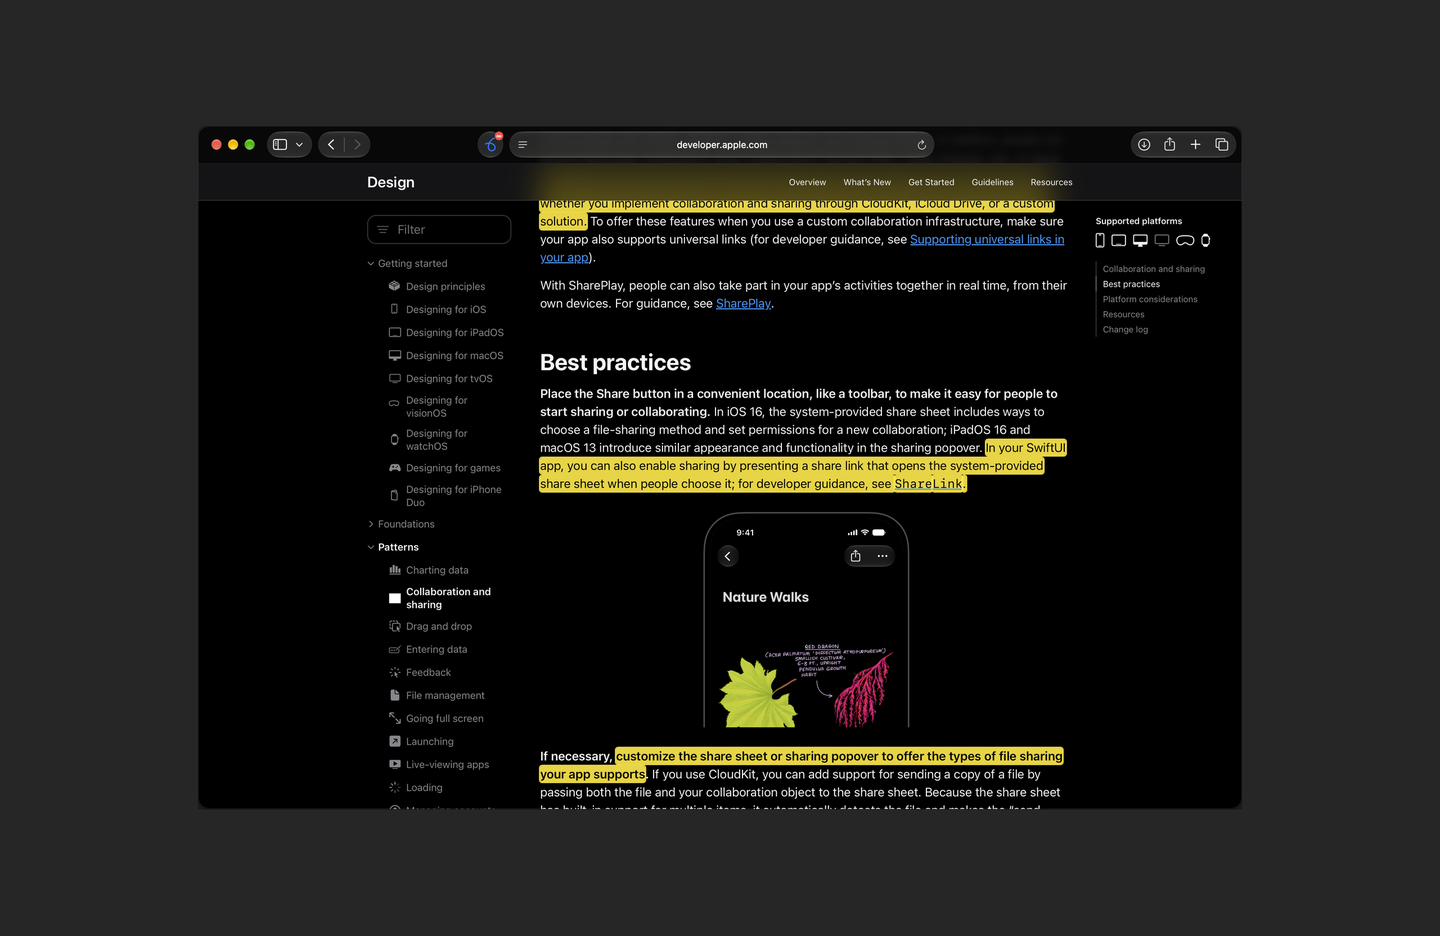
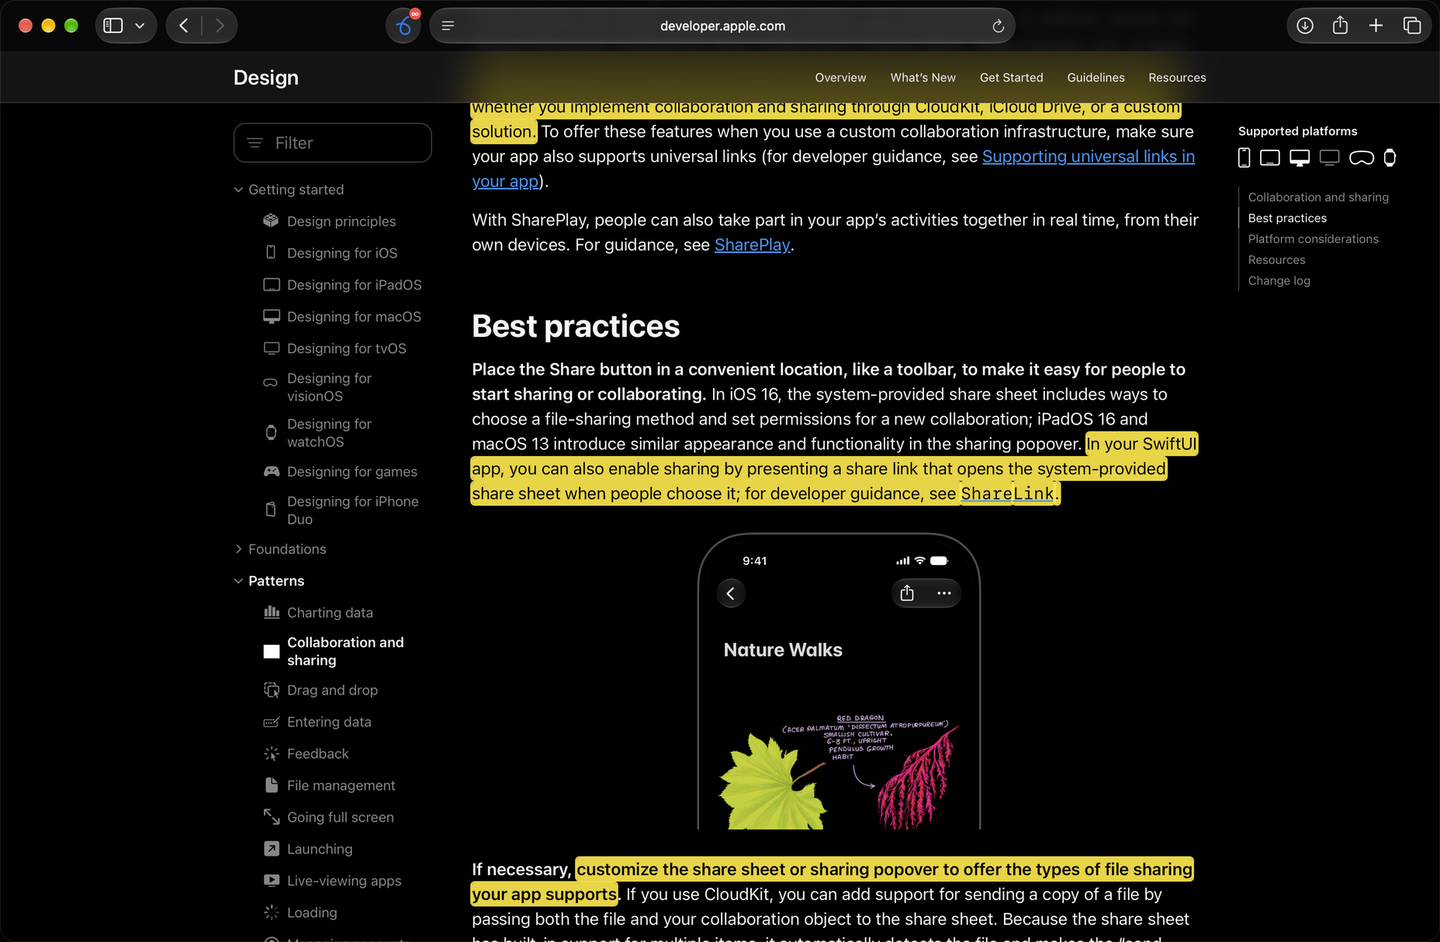
Fill the Mac hero screen with the Safari window
Trim only the transparent margin and shadow so the window fills the MacBook Air screen instead of floating on a backdrop. README and tests intentionally untouched.

diff --git a/eleventy.config.js b/eleventy.config.js
@@ -48,9 +48,9 @@ export default function (eleventyConfig) {
     const file = imageFile(`${name}-light`) || imageFile(name);
     const credit = caption ? `<figcaption>${escapeHtml(caption)}</figcaption>` : "";
     const bezel = file && bezels[shape];
-    // The owner approved a 0.46875% height correction for these existing Mac captures only.
-    const approvedMacFit = shape === "mac" && ["hero", "capture"].includes(name) &&
-      ((width === 1960 && height === 1280) || (width === 2560 && height === 1664));
+    // The owner approved a 0.46875% height correction for the 1960 x 1280 Mac captures; the trimmed Safari hero window needs 0.63%.
+    const approvedMacFit = shape === "mac" && ((["hero", "capture"].includes(name) && width === 1960 && height === 1280) ||
+      (name === "hero" && width === 1856 && height === 1214));
     if (bezel && (!Number.isFinite(width) || !Number.isFinite(height) || width <= 0 || height <= 0 ||
       (!approvedMacFit && Math.abs(height * bezel.screenWidth / width - bezel.screenHeight) > 0.5))) {
       throw new Error(`Screenshot ${name} needs dimensions matching the official ${shape} screen; provide a new capture instead of cropping or stretching it.`);
